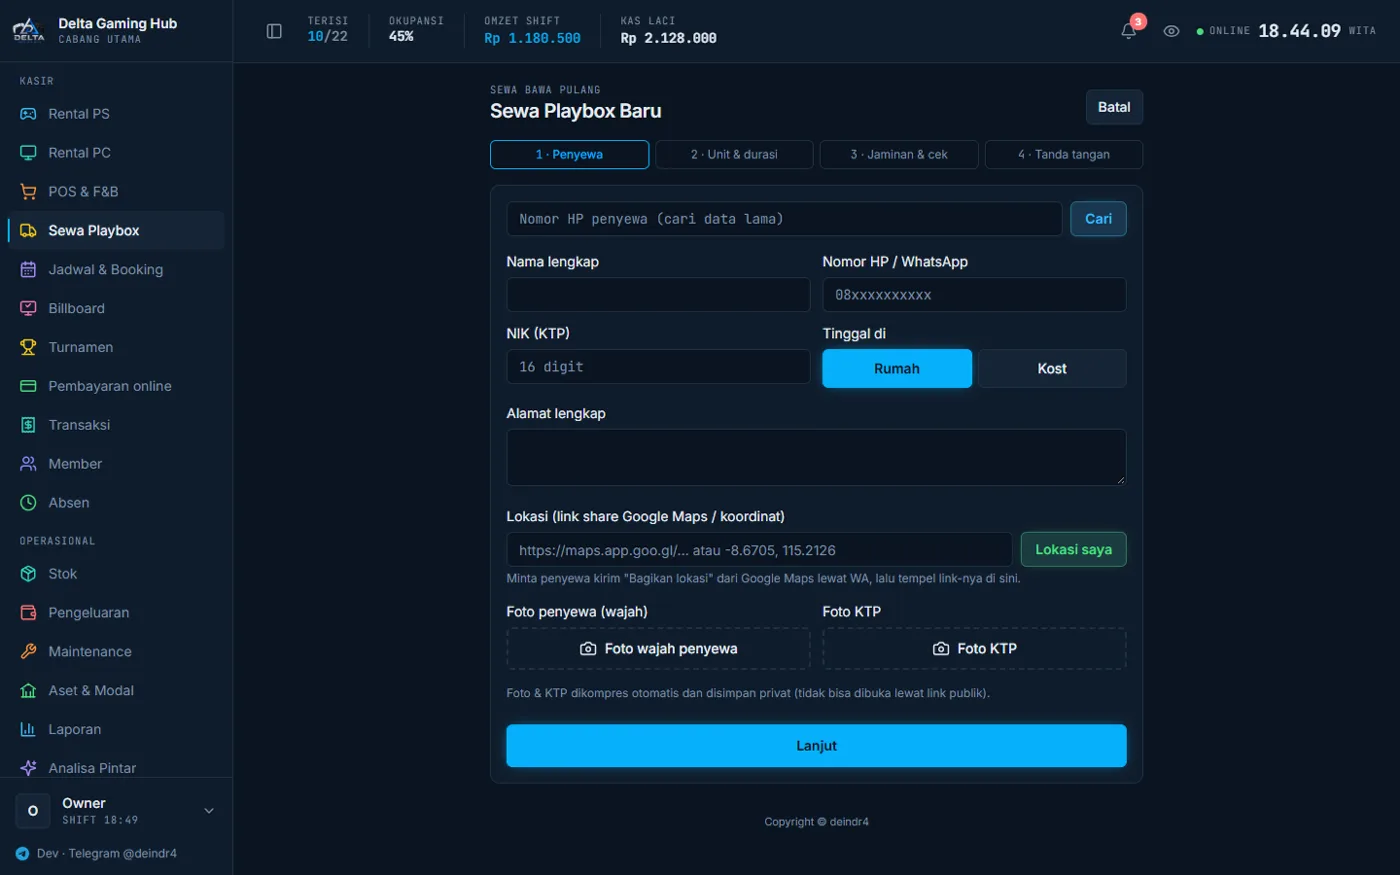
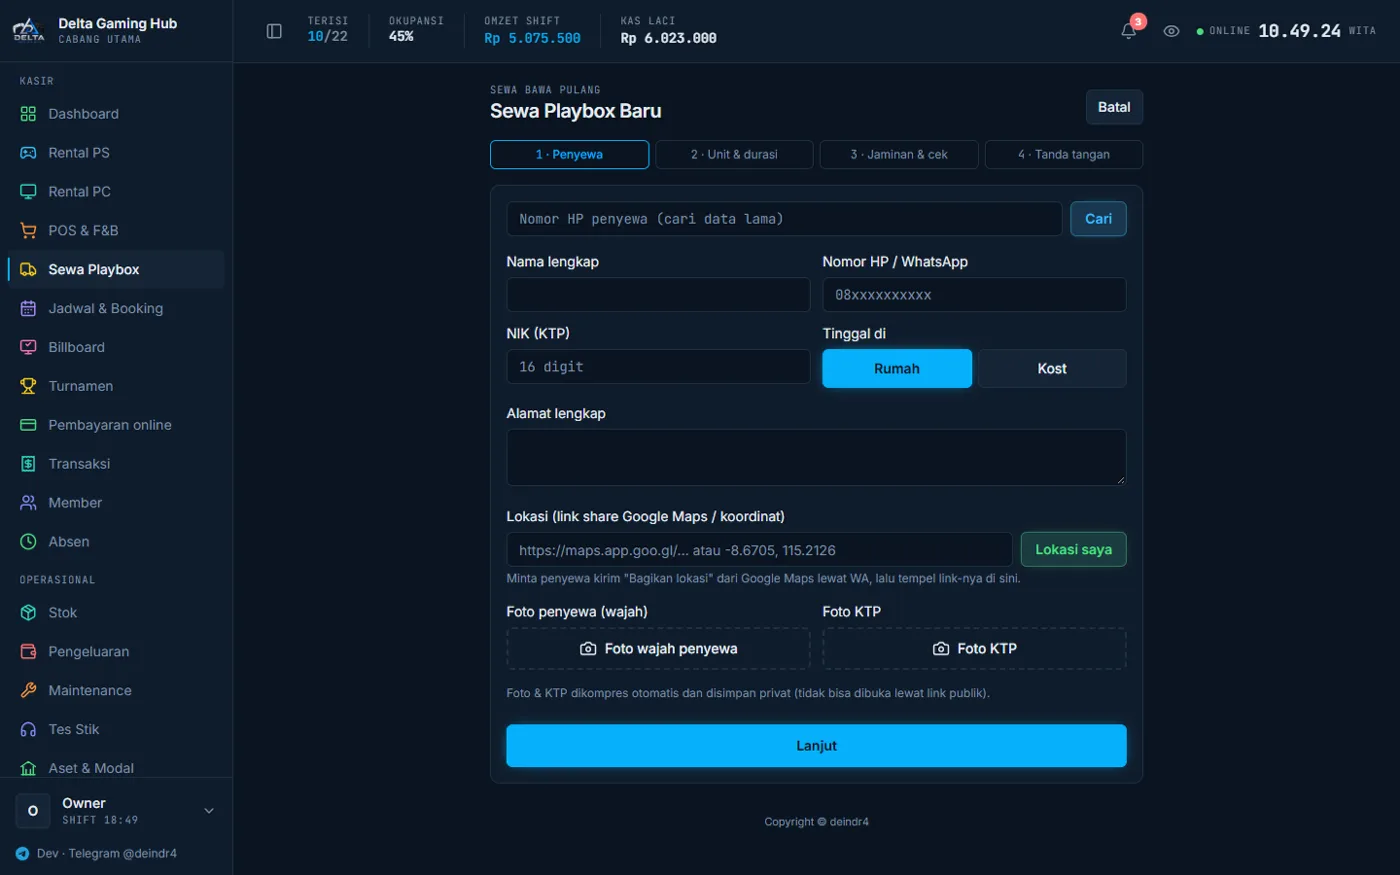
Perbarui screenshot v1.3.0: kurangi waktu, pindah unit, unit dibersihkan, bundling, supplier, laporan pembelian, laba F&B & neraca

diff --git a/README.md b/README.md
@@ -50,8 +50,20 @@ Jalan di PC rental (offline-first) dan bisa disinkron ke server cloud (Delta Clo
 
 <table>
   <tr>
-    <td width="50%"><img src="docs/gambar/kasir-kelola-sesi.webp" alt="Kelola sesi"><br><sub><b>Kelola sesi</b> — tambah waktu, F&B, pause, pindah unit, bonus waktu, struk</sub></td>
-    <td width="50%"><img src="docs/gambar/kasir-pos.webp" alt="POS F&B"><br><sub><b>POS F&B</b> — gabung ke tagihan unit, batalkan salah order (−1 / semua)</sub></td>
+    <td width="50%"><img src="docs/gambar/kasir-dashboard.webp" alt="Dashboard kasir"><br><sub><b>Dashboard</b> — pendapatan & laba hari ini, alamat server, status cloud & sinkron, TV / PC online, unit siap</sub></td>
+    <td width="50%"><img src="docs/gambar/kasir-kelola-sesi.webp" alt="Kelola sesi"><br><sub><b>Kelola sesi</b> — tambah / kurangi waktu, F&B, pause, pindah unit, bonus waktu, struk</sub></td>
+  </tr>
+  <tr>
+    <td><img src="docs/gambar/kasir-kurangi-waktu.webp" alt="Kurangi waktu"><br><sub><b>Kurangi waktu</b> — dipesan 2 jam ternyata 1 jam: harga dihitung proporsional, kembalian tunai dari laci</sub></td>
+    <td><img src="docs/gambar/kasir-pindah-unit.webp" alt="Pindah unit"><br><sub><b>Pindah unit + konversi tarif</b> — PS5 ↔ PS4, sisa waktu tetap, tagihan disesuaikan otomatis</sub></td>
+  </tr>
+  <tr>
+    <td><img src="docs/gambar/kasir-unit-dibersihkan.webp" alt="Unit dibersihkan"><br><sub><b>Sedang dibersihkan</b> — setelah selesai & lunas unit dibersihkan dulu (manual / otomatis N menit) sebelum siap lagi</sub></td>
+    <td><img src="docs/gambar/kasir-pos.webp" alt="POS F&B"><br><sub><b>POS F&B</b> — bundling otomatis (beli 3 = Rp2.500), gabung ke tagihan unit, batalkan salah order</sub></td>
+  </tr>
+  <tr>
+    <td><img src="docs/gambar/kasir-stok-masuk.webp" alt="Stok masuk"><br><sub><b>Stok masuk dari supplier</b> — nota pembelian, harga pokok baru, belanja tunai dari hasil bulan lalu</sub></td>
+    <td><img src="docs/gambar/kasir-tes-stik.webp" alt="Tes stik"><br><sub><b>Tes Stik</b> — tombol, analog drift, L2/R2, getar, gyro & speaker DualSense langsung di browser</sub></td>
   </tr>
   <tr>
     <td><img src="docs/gambar/kasir-rental-daftar.webp" alt="Tampilan daftar"><br><sub><b>Tampilan daftar</b> — satu baris per unit (timer, tagihan, aksi, remote), 15 unit per halaman; bisa ganti ke kotak</sub></td>
@@ -102,8 +114,12 @@ port yang dipakai, dan **backup database** walau billing mati.
     <td width="50%"><img src="docs/gambar/tv-tagihan.webp" alt="Tagihan di TV"><br><sub><b>Waktu habis</b> — rincian tagihan, QR isi ulang waktu dari HP, tombol panggil kasir</sub></td>
   </tr>
   <tr>
+    <td><img src="docs/gambar/tv-dibersihkan.webp" alt="Sedang dibersihkan"><br><sub><b>Sedang dibersihkan</b> — TV tetap terkunci sampai kasir menandai unit siap</sub></td>
     <td><img src="docs/gambar/tv-pemberitahuan.webp" alt="Pemberitahuan"><br><sub><b>Pemberitahuan</b> dari kasir di tengah layar + running text promo</sub></td>
+  </tr>
+  <tr>
     <td><img src="docs/gambar/tv-transisi-logo.webp" alt="Transisi logo"><br><sub><b>Transisi logo</b> saat mulai & selesai main</sub></td>
+    <td></td>
   </tr>
 </table>
 
@@ -121,6 +137,18 @@ port yang dipakai, dan **backup database** walau billing mati.
   </tr>
   <tr>
     <td><img src="docs/gambar/admin-perangkat.webp" alt="Perangkat TV & PC"><br><sub><b>Perangkat TV & PC</b> — statistik tipe TV, versi Android & APK, status online, push update</sub></td>
+    <td><img src="docs/gambar/admin-neraca.webp" alt="Neraca"><br><sub><b>Neraca</b> — aset, kewajiban & ekuitas per tanggal dengan pembanding</sub></td>
+  </tr>
+  <tr>
+    <td><img src="docs/gambar/admin-laporan-pembelian.webp" alt="Laporan pembelian"><br><sub><b>Pembelian</b> — per supplier & produk, dana belanja dari hasil bulan lalu</sub></td>
+    <td><img src="docs/gambar/admin-selisih-harga.webp" alt="Selisih harga pokok"><br><sub><b>Selisih harga pokok</b> — bulan ini vs bulan lalu, supplier termurah per produk</sub></td>
+  </tr>
+  <tr>
+    <td><img src="docs/gambar/admin-laba-penjualan.webp" alt="Laba penjualan"><br><sub><b>Laba penjualan F&B</b> — per produk & kategori, tanda produk rugi / margin tipis</sub></td>
+    <td><img src="docs/gambar/admin-bundling.webp" alt="Bundling"><br><sub><b>Bundling</b> — "beli N = Rp X" per produk, dengan masa berlaku</sub></td>
+  </tr>
+  <tr>
+    <td><img src="docs/gambar/admin-supplier.webp" alt="Supplier"><br><sub><b>Supplier</b> — kontak, catatan & riwayat pembelian</sub></td>
     <td></td>
   </tr>
   <tr>
@@ -138,7 +166,9 @@ port yang dipakai, dan **backup database** walau billing mati.
 
 - Matriks unit realtime: ready, terisi, menunggu bayar, maintenance — sisa waktu, tagihan & status TV per kartu (kotak / daftar).
 - Mode **paket / durasi** (hitung mundur) dan **open billing** (blok menit, minimal tagih, toleransi, pembulatan).
-- **Waktu pilih game** tidak ditagih, tambah waktu, **bonus waktu**, pause & resume, **pindah unit**, batal tambah waktu & batal sesi.
+- **Waktu pilih game** tidak ditagih, tambah waktu, **kurangi waktu** (harga proporsional), **bonus waktu**, pause & resume, batal tambah waktu & batal sesi.
+- **Pindah unit dengan konversi tarif** (PS5 ↔ PS4): sisa waktu tetap, tagihan disesuaikan.
+- Status **Sedang dibersihkan** setelah sesi selesai & lunas (aktif per cabang, manual atau otomatis).
 - Satu TV beberapa konsol (nama per **HDMI**), tarif per tipe konsol, kategori unit (VIP / reguler), paket & aturan harga.
 - **Rental PC** di menu terpisah, member & laporan tetap satu.
 </details>
@@ -156,8 +186,9 @@ port yang dipakai, dan **backup database** walau billing mati.
 <details>
 <summary><b>🍜 POS, stok, keuangan & karyawan</b></summary>
 
-- POS F&B: jual langsung atau **gabung ke tagihan unit**, scan barcode, batal salah order.
-- Stok per cabang dengan HPP rata-rata, stok masuk, **opname**, mutasi.
+- POS F&B: jual langsung atau **gabung ke tagihan unit**, scan barcode, batal salah order, **bundling** (beli N = Rp X).
+- Stok per cabang dengan HPP rata-rata, stok masuk dari **supplier** + nota, **opname**, mutasi.
+- **Laporan pembelian, selisih harga pokok, laba penjualan F&B & neraca** (Owner & Admin).
 - **Shift kas** satu laci per cabang + **serah terima**, selisih kas tercatat, pengeluaran dengan PIN.
 - **Karyawan**: jadwal, **absen PIN + selfie**, **rekap gaji** & bonus, slip gaji.
 - **Sewa Playbox** (PS bawa pulang): penyewa + lokasi Maps, foto & KTP privat, tarif jam/hari/minggu/bulan, jaminan, checklist, surat sewa, denda, pengingat WA.
@@ -253,8 +284,9 @@ file `.exe`. Installer otomatis backup database sebelum update — data & pengat
 
 ## Delta Cloud
 
-Server cloud dikelola pengembang dan **disewakan lewat langganan**: sinkron & cadangan cloud (TV & kasir tetap jalan
-saat PC rental mati), billboard & booking online, akses owner dari mana saja.
+**Satu server cloud khusus untuk setiap rental** (beserta cabangnya), disiapkan & dikelola pengembang lewat langganan:
+sinkron & cadangan cloud (TV & kasir tetap jalan saat PC rental mati), billboard & booking online, akses owner dari mana saja,
+dan backup otomatis ke Google Drive.
 Pesan langsung dari aplikasi: **Admin → Pengaturan → Langganan Delta Cloud** — bayar QRIS, sinkron cloud terpasang otomatis.
 
 ---
